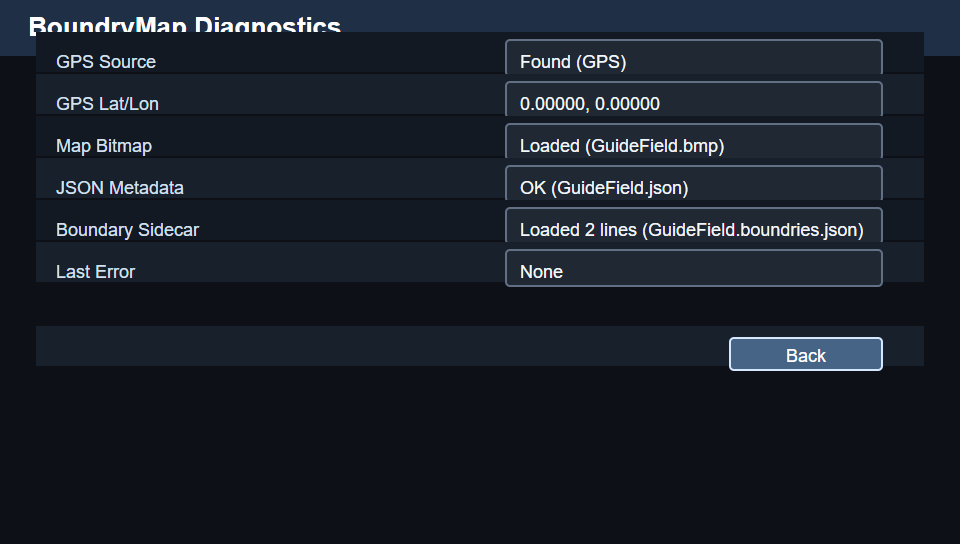
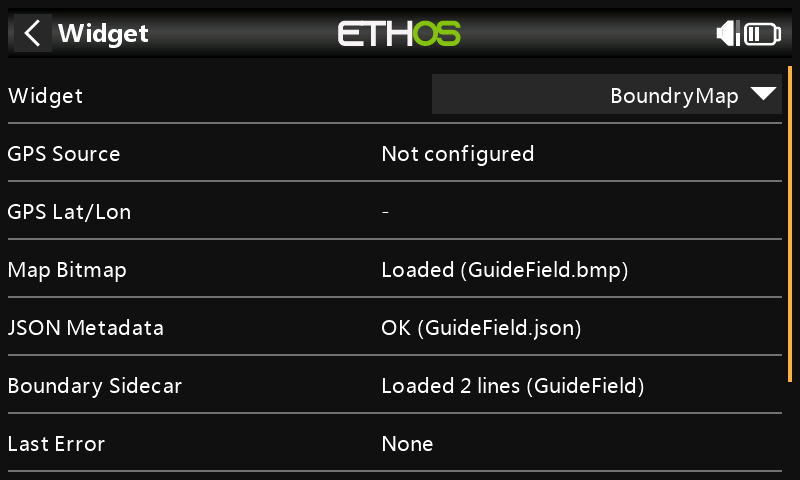
Validate BoundryMap with real WebSimulator captures
Replace the previous illustrative BoundryMap README screenshots with images captured from the actual Ethos 1.6.6 X20RS-FCC WebSimulator canvas using a temporary non-identifying GuideField map.

Fix the simulator harness persist mount so staged files land under /persist/{Radio}, matching USER:/ at runtime. This lets the real simulator discover the widget assets and scripts in both GUI and headless runs.

Fix BoundryMap control handling discovered during real simulator UAT by accepting debounced end-only Draw/Delete taps while keeping Save start-armed. Also shorten successful sidecar diagnostics so the status fits on the simulator screen.

Validation before commit: luac syntax check, BoundryMap tests, simulator harness tests, docs tests, memory catalog check, X20RS-FCC 1.6.6 headless suite, and git diff --check with line-ending warnings only.

diff --git a/tools/sim/harness/websim_runner.js b/tools/sim/harness/websim_runner.js
@@ -27,14 +27,20 @@ function ensureDir(FS, targetPath) {
   }
 }
 
-function writeHostTree(FS, hostRoot, relative = "") {
+function normalizeSimPath(value) {
+  const raw = String(value || "/").replaceAll("\\", "/");
+  const prefixed = raw.startsWith("/") ? raw : `/${raw}`;
+  return path.posix.normalize(prefixed);
+}
+
+function writeHostTree(FS, hostRoot, relative = "", targetRoot = "/") {
   const current = path.join(hostRoot, relative);
   for (const entry of fs.readdirSync(current, { withFileTypes: true })) {
     const childRelative = path.join(relative, entry.name);
-    const simPath = `/${childRelative.replaceAll(path.sep, "/")}`;
+    const simPath = normalizeSimPath(path.posix.join(targetRoot, childRelative.replaceAll(path.sep, "/")));
     if (entry.isDirectory()) {
       ensureDir(FS, simPath);
-      writeHostTree(FS, hostRoot, childRelative);
+      writeHostTree(FS, hostRoot, childRelative, targetRoot);
       continue;
     }
     if (entry.isFile()) {
@@ -71,6 +77,7 @@ async function main() {
   const runtimeJs = path.resolve(args["runtime-js"]);
   const runtimeDir = path.resolve(args["runtime-dir"]);
   const persist = path.resolve(args.persist);
+  const persistMount = normalizeSimPath(args["persist-mount"] || "/");
   const project = args.project || "SensorList";
   const startupMs = Number(args["startup-ms"] || 1000);
   const settleMs = Number(args["settle-ms"] || 1500);
@@ -85,6 +92,7 @@ async function main() {
     project,
     runtimeJs,
     persist,
+    persistMount,
     started: false,
     reloaded: false,
     canvasUpdates: 0,
@@ -113,9 +121,9 @@ async function main() {
     });
 
     progress("staging persist tree");
-    ensureDir(module.FS, "/models");
-    ensureDir(module.FS, "/scripts");
-    writeHostTree(module.FS, persist);
+    ensureDir(module.FS, path.posix.join(persistMount, "models"));
+    ensureDir(module.FS, path.posix.join(persistMount, "scripts"));
+    writeHostTree(module.FS, persist, "", persistMount);
     if (args["write-default-model"] === "true" || args["write-default-model"] === "1") {
       progress("writing default settings and model");
       module._writeDefaultSettingsAndModel();

diff --git a/tests/test_sim_harness.py b/tests/test_sim_harness.py
@@ -382,7 +382,13 @@ def test_parse_runner_result_reads_last_json_line():
     assert result == {"status": "success", "project": "SensorList"}
 
 
-def _run_websim_runner_with_fake_runtime(tmp_path: Path, runtime_source: str) -> subprocess.CompletedProcess:
+def _run_websim_runner_with_fake_runtime(
+    tmp_path: Path,
+    runtime_source: str,
+    *,
+    persist_mount: str | None = None,
+    persist_files: dict[str, str] | None = None,
+) -> subprocess.CompletedProcess:
     node = shutil.which("node")
     if node is None:
         pytest.skip("Node.js is required to execute websim_runner.js")
@@ -393,24 +399,32 @@ def _run_websim_runner_with_fake_runtime(tmp_path: Path, runtime_source: str) ->
     runtime_js.write_text(runtime_source, encoding="utf-8")
     persist = tmp_path / "persist"
     persist.mkdir()
+    for relative, content in (persist_files or {}).items():
+        target = persist / relative
+        target.parent.mkdir(parents=True, exist_ok=True)
+        target.write_text(content, encoding="utf-8")
+
+    command = [
+        node,
+        str(harness.RUNNER_JS),
+        "--runtime-js",
+        str(runtime_js),
+        "--runtime-dir",
+        str(runtime_dir),
+        "--persist",
+        str(persist),
+        "--project",
+        "FakeProject",
+        "--startup-ms",
+        "0",
+        "--settle-ms",
+        "0",
+    ]
+    if persist_mount is not None:
+        command.extend(["--persist-mount", persist_mount])
 
     return subprocess.run(
-        [
-            node,
-            str(harness.RUNNER_JS),
-            "--runtime-js",
-            str(runtime_js),
-            "--runtime-dir",
-            str(runtime_dir),
-            "--persist",
-            str(persist),
-            "--project",
-            "FakeProject",
-            "--startup-ms",
-            "0",
-            "--settle-ms",
-            "0",
-        ],
+        command,
         cwd=harness.REPO_ROOT,
         capture_output=True,
         text=True,
@@ -454,6 +468,29 @@ module.exports = async (options) => ({{
     else:
         assert result["messages"][0]["code"] == "reloadScripts_unavailable"
         assert result["messages"][0]["export"] == "_reloadScripts"
+
+
+def test_websim_runner_writes_persist_tree_to_requested_mount(tmp_path: Path):
+    completed = _run_websim_runner_with_fake_runtime(
+        tmp_path,
+        """
+module.exports = async (options) => ({
+  FS: {
+    mkdir: () => {},
+    writeFile: (path) => { options.print('write:' + path); },
+  },
+  _start: () => { options.print('fake runtime started'); },
+});
+""",
+        persist_mount="/persist/X20RS",
+        persist_files={"scripts/FakeProject/main.lua": "-- fake\n"},
+    )
+
+    assert completed.returncode == 0, completed.stderr
+    result = harness.parse_runner_result(completed.stdout, {"status": "startup_failure"})
+    assert result["status"] == "success"
+    assert result["persistMount"] == "/persist/X20RS"
+    assert "write:/persist/X20RS/scripts/FakeProject/main.lua" in result["stdout"]
 
 
 def test_websim_runner_detects_script_errors_without_reload_scripts(tmp_path: Path):
@@ -514,6 +551,8 @@ def test_run_headless_invokes_node_runner_and_logs_output(monkeypatch, tmp_path:
     assert result["status"] == "success"
     assert result["projects"] == ["SensorList", "BoundryMap"]
     assert result["persistDir"] == str(tmp_path / "persist")
+    assert "--persist-mount" in calls["command"]
+    assert "/persist/X20RS" in calls["command"]
     assert "--project" in calls["command"]
     assert "SensorList+BoundryMap" in calls["command"]
     assert str(harness.RUNNER_JS) in calls["command"]
@@ -587,10 +626,13 @@ def test_run_gui_controls_default_model_writer(monkeypatch, tmp_path: Path, writ
 
     result = harness.run_gui(args)
     index_html = Path(result["runDir"]) / "gui" / "index.html"
+    persist_manifest = Path(result["runDir"]) / "gui" / "persist_manifest.json"
     gui_runtime_dir = Path(result["runDir"]) / "gui" / "runtime"
     html = index_html.read_text(encoding="utf-8")
+    manifest = json.loads(persist_manifest.read_text(encoding="utf-8"))
 
     assert result["status"] == "gui_ready"
+    assert "persist/X20RS/scripts/SensorList/main.lua" in manifest
     assert not gui_runtime_dir.exists()
     assert expected_value in html
     assert '<link rel="icon" href="data:,">' in html

diff --git a/tools/sim/harness/run.py b/tools/sim/harness/run.py
@@ -408,6 +408,10 @@ def resolve_persist_root(package: RuntimePackage, explicit: str | None = None) -
     return ethos_suite_data_root() / ".simulator" / package.version / "persist" / package.target.radio
 
 
+def simulator_persist_mount(package: RuntimePackage) -> str:
+    return f"/persist/{package.target.radio}"
+
+
 def apply_suite_args(args: argparse.Namespace) -> None:
     suite_path = getattr(args, "suite", None)
     if not suite_path:
@@ -497,6 +501,8 @@ def run_headless(args: argparse.Namespace) -> dict[str, Any]:
         str(package.runtime_dir),
         "--persist",
         str(persist_root),
+        "--persist-mount",
+        simulator_persist_mount(package),
         "--project",
         label,
         "--startup-ms",
@@ -560,12 +566,14 @@ def run_headless(args: argparse.Namespace) -> dict[str, Any]:
     return result
 
 
-def _persist_manifest(root: Path) -> dict[str, str]:
+def _persist_manifest(root: Path, mount: str | None = None) -> dict[str, str]:
     manifest: dict[str, str] = {}
+    prefix = (mount or "").strip("/")
     for path in sorted(root.rglob("*")):
         if path.is_file():
             relative = path.relative_to(root).as_posix()
-            manifest[relative] = base64.b64encode(path.read_bytes()).decode("ascii")
+            manifest_path = f"{prefix}/{relative}" if prefix else relative
+            manifest[manifest_path] = base64.b64encode(path.read_bytes()).decode("ascii")
     return manifest
 
 
@@ -581,7 +589,7 @@ def write_gui_files(
         shutil.rmtree(gui_root)
     gui_root.mkdir(parents=True)
     (gui_root / "persist_manifest.json").write_text(
-        json.dumps(_persist_manifest(persist_root), indent=2) + "\n",
+        json.dumps(_persist_manifest(persist_root, simulator_persist_mount(package)), indent=2) + "\n",
         encoding="utf-8",
     )
     runtime_token = f"{package.version}-{_sha256(package.runtime_js)[:12]}"

diff --git a/deslopification/memory/CATALOG.md b/deslopification/memory/CATALOG.md
@@ -15,17 +15,17 @@ Pre-optimization baseline (before Issue #16 on 2026-02-26):
 
 Current snapshot (auto-generated, excludes `CATALOG.md`):
 
-- Files: 139
-- Total size: 240,284 bytes
-- Total lines: 6,364
+- Files: 140
+- Total size: 243,408 bytes
+- Total lines: 6,436
 - Distribution by artifact:
-  - session notes: 133
+  - session notes: 134
   - handoff/restart notes: 3
   - reference notes: 2
   - summary notes: 1
 
 - Distribution by scope:
-  - 83 -- repo ( Repository workflow, release, docs, testing, prompts, and metadata )
+  - 84 -- repo ( Repository workflow, release, docs, testing, prompts, and metadata )
   - 17 -- ethos-platform ( Reusable Ethos runtime, API, simulator, and environment knowledge )
   - 17 -- sensorlist ( SensorList-specific behavior, release history, and operating notes )
   - 15 -- memory ( Memory system structure and retrieval policy )
@@ -35,7 +35,7 @@ Current snapshot (auto-generated, excludes `CATALOG.md`):
 - Distribution by concern:
   - 33 -- implementation
   - 28 -- workflow
-  - 18 -- testing
+  - 19 -- testing
   - 17 -- build
   - 15 -- docs
   - 15 -- release
@@ -46,10 +46,10 @@ Current snapshot (auto-generated, excludes `CATALOG.md`):
 ## Recent High-Signal Notes (Auto-generated)
 
 - Selection: newest session notes where `Concern` is one of `build`, `docs`, `metadata`, `release`, `testing`, or `workflow`; keep up to 3 per concern, then keep newest 12 overall.
+- 2026-07-01 | testing | repo | [notes/session/repo/SESSION_NOTES_2026-07-01_ISSUE_102_BOUNDRYMAP_REAL_WEBSIM_SCREENSHOTS.md](notes/session/repo/SESSION_NOTES_2026-07-01_ISSUE_102_BOUNDRYMAP_REAL_WEBSIM_SCREENSHOTS.md) | # Session Notes 2026-07-01 - Issue #102 BoundryMap Real WebSimulator Screenshots
 - 2026-06-30 | docs | repo | [notes/session/repo/SESSION_NOTES_2026-06-30_ISSUE_102_BOUNDRYMAP_README_GUIDE.md](notes/session/repo/SESSION_NOTES_2026-06-30_ISSUE_102_BOUNDRYMAP_README_GUIDE.md) | # Session Notes 2026-06-30 - Issue #102 BoundryMap README Guide
 - 2026-06-27 | testing | ethos-platform | [notes/session/ethos-platform/SESSION_NOTES_2026-06-27_WEBSIM_1_6_6_OPTIONAL_RELOAD.md](notes/session/ethos-platform/SESSION_NOTES_2026-06-27_WEBSIM_1_6_6_OPTIONAL_RELOAD.md) | # Session Notes 2026-06-27 - WebSimulator 1.6.6 Optional Reload
 - 2026-06-27 | testing | repo | [notes/session/repo/SESSION_NOTES_2026-06-27_ISSUE_102_BOUNDRYMAP_QA.md](notes/session/repo/SESSION_NOTES_2026-06-27_ISSUE_102_BOUNDRYMAP_QA.md) | # Session Notes 2026-06-27 - Issue #102 BoundryMap QA
-- 2026-05-30 | testing | ethos-platform | [notes/session/ethos-platform/SESSION_NOTES_2026-05-30_WEBSIM_ZIP_TRAVERSAL_TEST.md](notes/session/ethos-platform/SESSION_NOTES_2026-05-30_WEBSIM_ZIP_TRAVERSAL_TEST.md) | # Session Notes 2026-05-30 - WebSimulator ZIP Traversal Test
 - 2026-05-30 | workflow | repo | [notes/session/repo/SESSION_NOTES_2026-05-30_PR94_CONFLICT_RESOLUTION.md](notes/session/repo/SESSION_NOTES_2026-05-30_PR94_CONFLICT_RESOLUTION.md) | # Session Notes 2026-05-30 - PR #94 conflict resolution
 - 2026-05-30 | workflow | repo | [notes/session/repo/SESSION_NOTES_2026-05-30_ISSUE_95_WORKSPACE_AGENTS_TRANSITION.md](notes/session/repo/SESSION_NOTES_2026-05-30_ISSUE_95_WORKSPACE_AGENTS_TRANSITION.md) | # Session Notes 2026-05-30 - Issue #95 workspace AGENTS transition
 - 2026-05-05 | docs | repo | [notes/session/repo/SESSION_NOTES_2026-05-05_ISSUE_76_ETHOS_26_1_BASELINE.md](notes/session/repo/SESSION_NOTES_2026-05-05_ISSUE_76_ETHOS_26_1_BASELINE.md) | # Session Notes 2026-05-05 - Issue #76 Ethos 26.1 Baseline
@@ -212,3 +212,4 @@ Current snapshot (auto-generated, excludes `CATALOG.md`):
 | 2026-06-27 | session | ethos-platform | testing | [notes/session/ethos-platform/SESSION_NOTES_2026-06-27_WEBSIM_1_6_6_OPTIONAL_RELOAD.md](notes/session/ethos-platform/SESSION_NOTES_2026-06-27_WEBSIM_1_6_6_OPTIONAL_RELOAD.md) | # Session Notes 2026-06-27 - WebSimulator 1.6.6 Optional Reload |
 | 2026-06-27 | session | repo | testing | [notes/session/repo/SESSION_NOTES_2026-06-27_ISSUE_102_BOUNDRYMAP_QA.md](notes/session/repo/SESSION_NOTES_2026-06-27_ISSUE_102_BOUNDRYMAP_QA.md) | # Session Notes 2026-06-27 - Issue #102 BoundryMap QA |
 | 2026-06-30 | session | repo | docs | [notes/session/repo/SESSION_NOTES_2026-06-30_ISSUE_102_BOUNDRYMAP_README_GUIDE.md](notes/session/repo/SESSION_NOTES_2026-06-30_ISSUE_102_BOUNDRYMAP_README_GUIDE.md) | # Session Notes 2026-06-30 - Issue #102 BoundryMap README Guide |
+| 2026-07-01 | session | repo | testing | [notes/session/repo/SESSION_NOTES_2026-07-01_ISSUE_102_BOUNDRYMAP_REAL_WEBSIM_SCREENSHOTS.md](notes/session/repo/SESSION_NOTES_2026-07-01_ISSUE_102_BOUNDRYMAP_REAL_WEBSIM_SCREENSHOTS.md) | # Session Notes 2026-07-01 - Issue #102 BoundryMap Real WebSimulator Screenshots |

diff --git a/deslopification/memory/notes/session/repo/SESSION_NOTES_2026-07-01_ISSUE_102_BOUNDRYMAP_REAL_WEBSIM_SCREENSHOTS.md b/deslopification/memory/notes/session/repo/SESSION_NOTES_2026-07-01_ISSUE_102_BOUNDRYMAP_REAL_WEBSIM_SCREENSHOTS.md
@@ -1,0 +1,72 @@
+# Session Notes 2026-07-01 - Issue #102 BoundryMap Real WebSimulator Screenshots
+
+## Note Placement
+
+- Artifact: `session`
+- Scope: `repo`
+- Concern: `testing`
+
+## What changed
+
+- Replaced the BoundryMap README images with frames captured from the actual
+  Ethos 1.6.6 `X20RS-FCC` WebSimulator canvas using a temporary ignored
+  synthetic `GuideField` map.
+- Fixed the WebSimulator harness persist staging path so headless and GUI runs
+  write staged files under `/persist/{Radio}`, matching the runtime user
+  directory.
+- Fixed BoundryMap touch controls for 1.6.6 WebSimulator end-only duplicate
+  touch delivery by trying raw control coordinates before the legacy offset
+  path and debouncing duplicate `Draw`/`Delete` end-only events. `Save` remains
+  start-armed.
+- Shortened successful sidecar diagnostics to the map stem so the status fits
+  on the 800px simulator screen.
+- Files touched:
+  - `scripts/BoundryMap/README.md`
+  - `scripts/BoundryMap/docs/images/*.png`
+  - `scripts/BoundryMap/main.lua`
+  - `scripts/BoundryMap/tests/lua/test_boundrymap.lua`
+  - `tools/sim/harness/run.py`
+  - `tools/sim/harness/websim_runner.js`
+  - `tools/sim/harness/README.md`
+  - `tests/test_sim_harness.py`
+
+## Why
+
+- Root cause or objective:
+  - The existing README images were browser-drawn SVG guide captures, not real
+    simulator output.
+  - GUI manifest staging previously wrote files at the virtual filesystem root,
+    while 1.6.6 uses `/persist/X20RS` as `USER:/`.
+  - The real 1.6.6 simulator delivered visible widget taps as duplicated
+    touch-end events without a touch-start, so BoundryMap controls did not
+    toggle unless the script accepted that event shape.
+- Scope guardrails:
+  - Sibling reference repos were not touched.
+  - Private/local map assets were not used for captures.
+  - The `GuideField` map and simulator run directories stayed ignored.
+  - The boundary-warning screenshot used a run-manifest-only simulated GPS
+    state because the stock simulator model exposed no GPS source.
+
+## Validation run(s)
+
+- `luac -p .\scripts\BoundryMap\main.lua`
+  - result: pass
+- `python -m pytest .\scripts\BoundryMap\tests -q`
+  - result: pass (`3 passed`)
+- `python -m pytest tests\test_sim_harness.py -q`
+  - result: pass (`33 passed`)
+- `python -m pytest .\tests\test_docs_commands.py .\tests\test_docs_contracts.py -q`
+  - result: pass (`189 passed, 26 skipped`)
+- `python tools\sim\harness\run.py headless --suite tools\sim\harness\suites\BoundryMap-X20RS-FCC-1.6.6.json --no-download --run-dir tools\sim\runs\issue-102-boundrymap-x20rs-166-final-validation --persist-dir tools\sim\runs\issue-102-boundrymap-x20rs-166-final-validation-persist --timeout-ms 20000`
+  - result: pass; `status=success`, `persistMount=/persist/X20RS`, `messages[].code=reloadScripts_unavailable`
+
+## Follow-up items
+
+- Consider a first-class simulator telemetry fixture if future docs or UAT need
+  warning-state captures without a run-manifest-only state shim.
+
+## Current State Sync
+
+- `CURRENT_STATE.md` updated: no
+- If `no`, reason: issue-local harness/script behavior and docs update; no new
+  durable workflow policy.

diff --git a/scripts/BoundryMap/README.md b/scripts/BoundryMap/README.md
@@ -4,8 +4,12 @@ BoundryMap is an Ethos widget for flying with a GPS map and editable boundary
 lines. It shows your home point, aircraft position, optional coordinates and
 distance, and warns when the line from home to the aircraft crosses a boundary.
 
-The screenshots below use a neutral demo map named `GuideField` so no private
+The screenshots below were captured from the actual Ethos 1.6.6 X20RS-FCC
+WebSimulator canvas using a neutral demo map named `GuideField`, so no private
 flying-site map or real field coordinates are published in this repository.
+The boundary-warning screenshot uses a run-scoped simulated GPS state because
+the stock simulator model used for capture does not expose a GPS telemetry
+source.
 
 ## Quick Start
 
@@ -90,11 +94,11 @@ Use `Back` to return to the main settings page.
 
 ![BoundryMap normal flight display](docs/images/boundrymap-normal-flight.png)
 
-The map screen shows the selected map, boundary lines, the home icon, and
-the aircraft indicator. The lower-left overlays show coordinates and distance
-when those settings are enabled. The top-left status shows how many boundary
-lines are on the map out of the six-line limit, or `Unsaved *` when changes
-need to be saved.
+The map screen shows the selected map and boundary lines. With GPS telemetry,
+it also shows the home icon and aircraft indicator. The lower-left overlays
+show coordinates and distance when those settings are enabled. The top-left
+status shows how many boundary lines are on the map out of the six-line limit,
+or `Unsaved *` when changes need to be saved.
 
 Home is learned from stable GPS telemetry. If the home point is wrong, use
 `Reset Home` in the settings page, wait for a stable GPS fix, and verify the

diff --git a/tools/sim/harness/README.md b/tools/sim/harness/README.md
@@ -17,7 +17,9 @@ By default, headless and GUI runs stage projects into the same Ethos Suite
 persist directory for the selected radio and runtime version:
 `{Ethos Suite data}/.simulator/{EthosVersion}/persist/{Radio}`. Use
 `--persist-dir` only when you need to point the WebSimulator at a nonstandard
-persist tree.
+persist tree. The runner writes that staged tree into the WebSimulator
+filesystem at `/persist/{Radio}` so `USER:/` paths match the runtime's user
+directory.
 
 Runtime ZIPs and extracted JavaScript/WASM files are stored under
 `tools/sim/radios/`. GUI mode serves those cached runtime files directly
